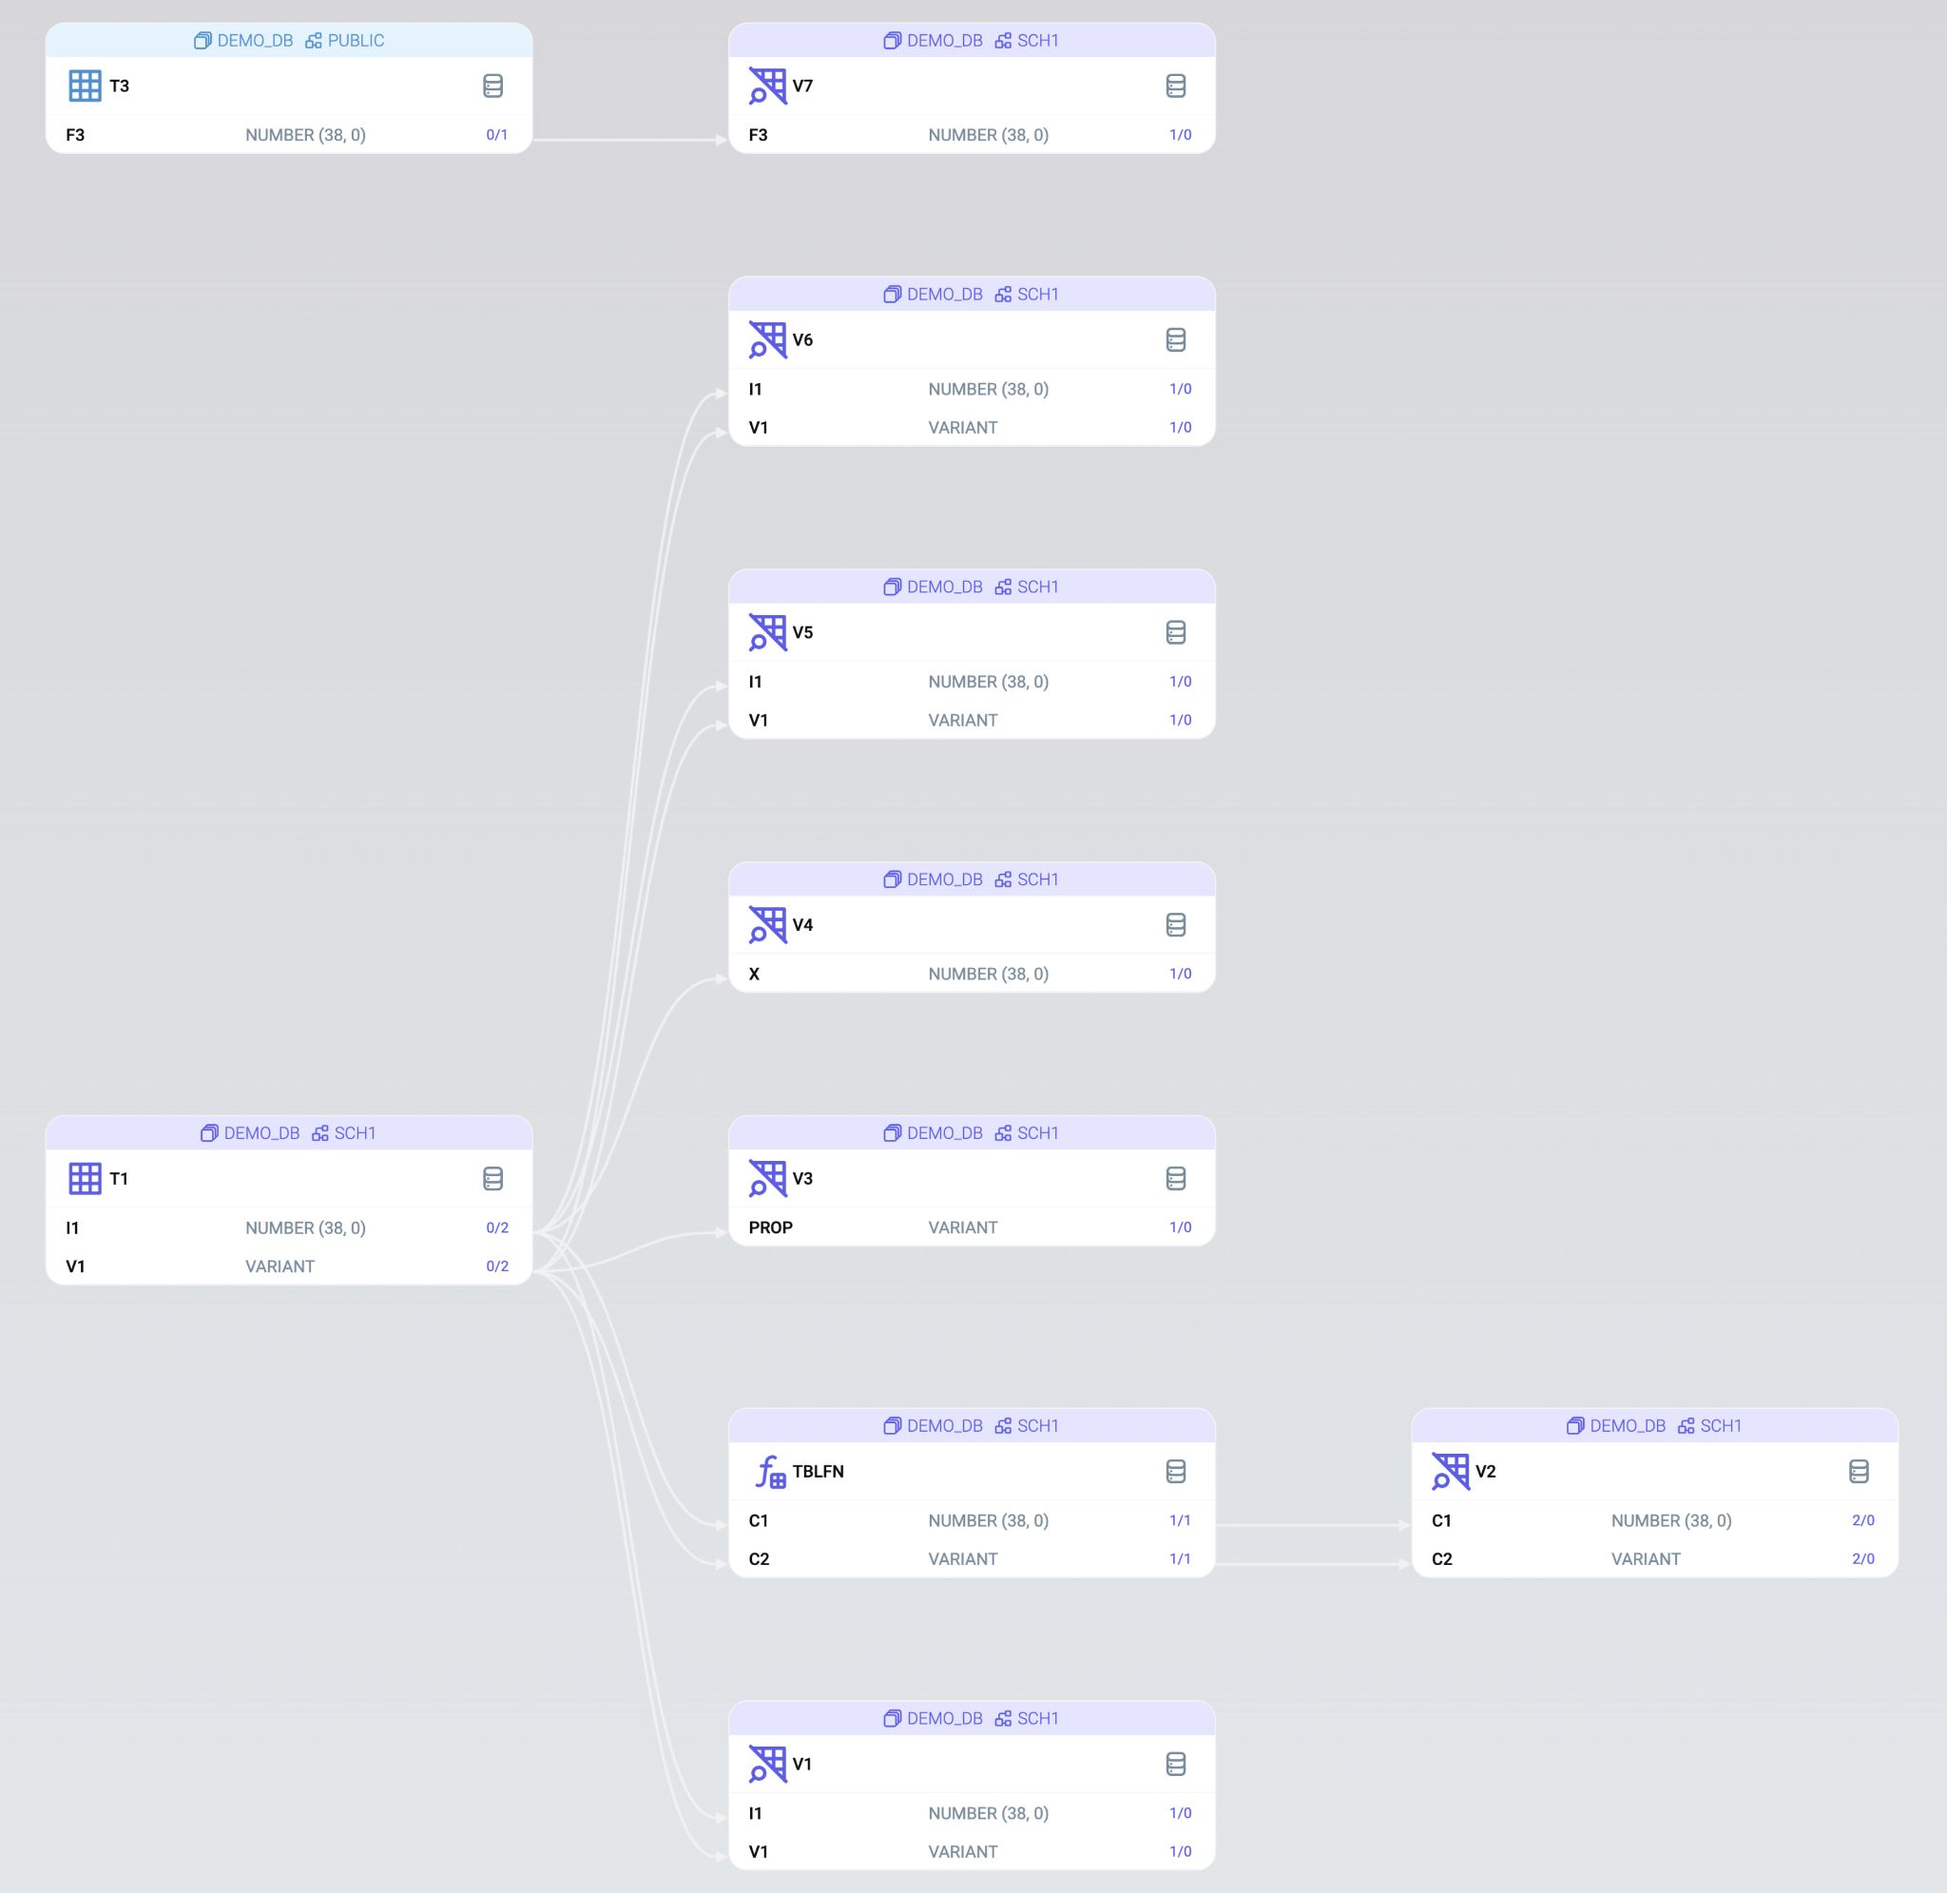
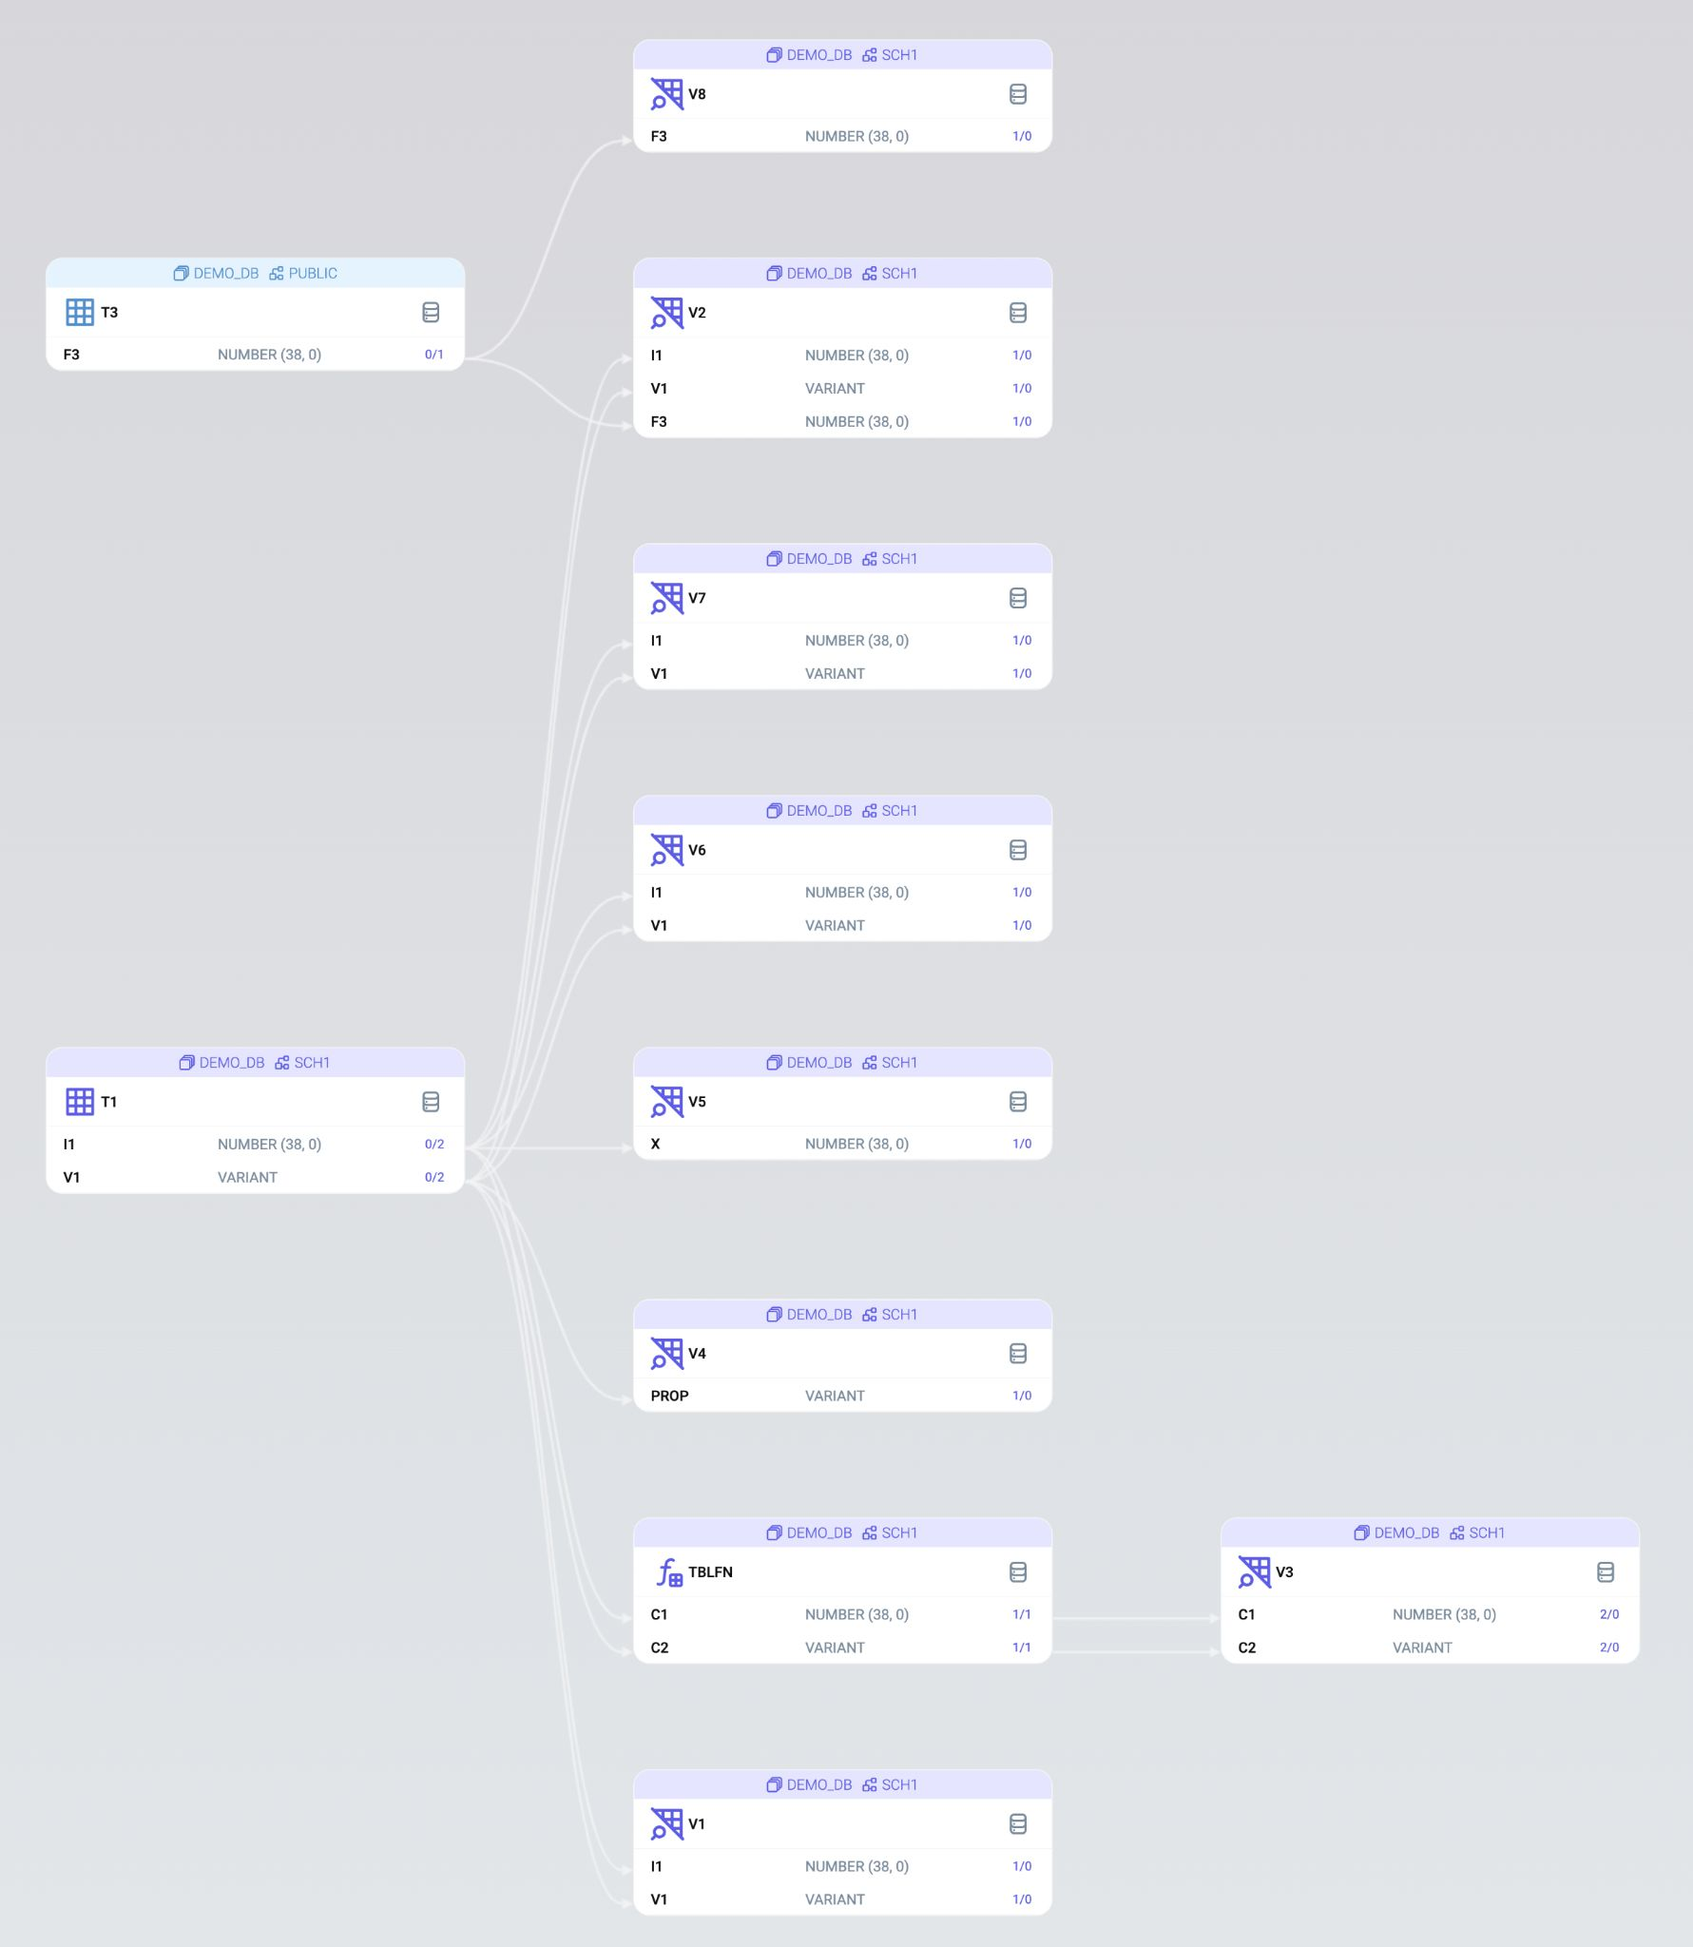
add identifier().*

diff --git a/README.MD b/README.MD
@@ -68,14 +68,14 @@ CREATE VIEW V1 AS
 ;
 
 -- Column Identifier
-CREATE VIEW V3 AS
+CREATE VIEW V4 AS
   SELECT identifier('DEMO_DB.SCH1.T1.V1'):json_prop as prop 
   FROM 
     DEMO_DB.SCH1.T1
 ;
 
 -- Double-Dot Notation
-CREATE VIEW V7 AS
+CREATE VIEW V8 AS
   SELECT * 
   FROM
     DEMO_DB..T3
